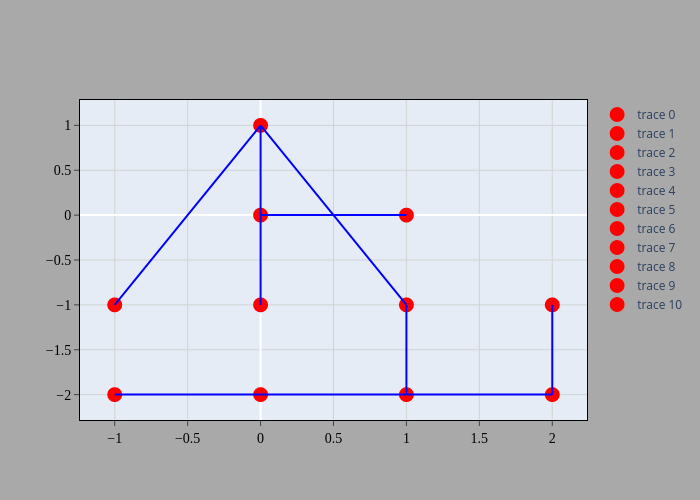
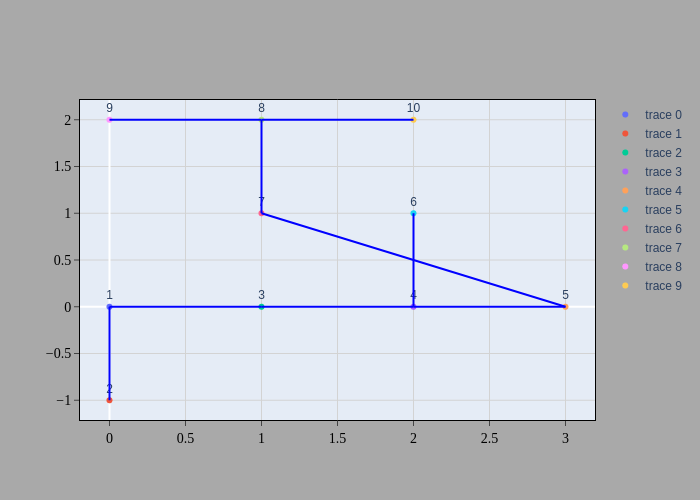
Display nodes with ID

diff --git a/src/display.py b/src/display.py
@@ -88,8 +88,9 @@ class Display():
                 x=[self.nodes[node].coordinates['x']],
                 y=[self.nodes[node].coordinates['y']],
                 text=[self.nodes[node].id],
-                mode='markers',
-                marker=dict(size=self.nodes_size, color=self.nodes_color)
+                mode='markers+text',
+                # marker=dict(size=self.nodes_size, color=self.nodes_color),
+                textposition="bottom center"
             ))
 
         # Create a line plot for each edge
@@ -102,6 +103,8 @@ class Display():
                 y1=self.nodes[edge[1]].coordinates['y'],
                 line=dict(width=self.edges_width, color=self.edges_color)
             )
+        
+        self.figure.update_traces(textposition='top center')
 
 
     def remove_dupliacte_tuples(self,tuple_list_p):
